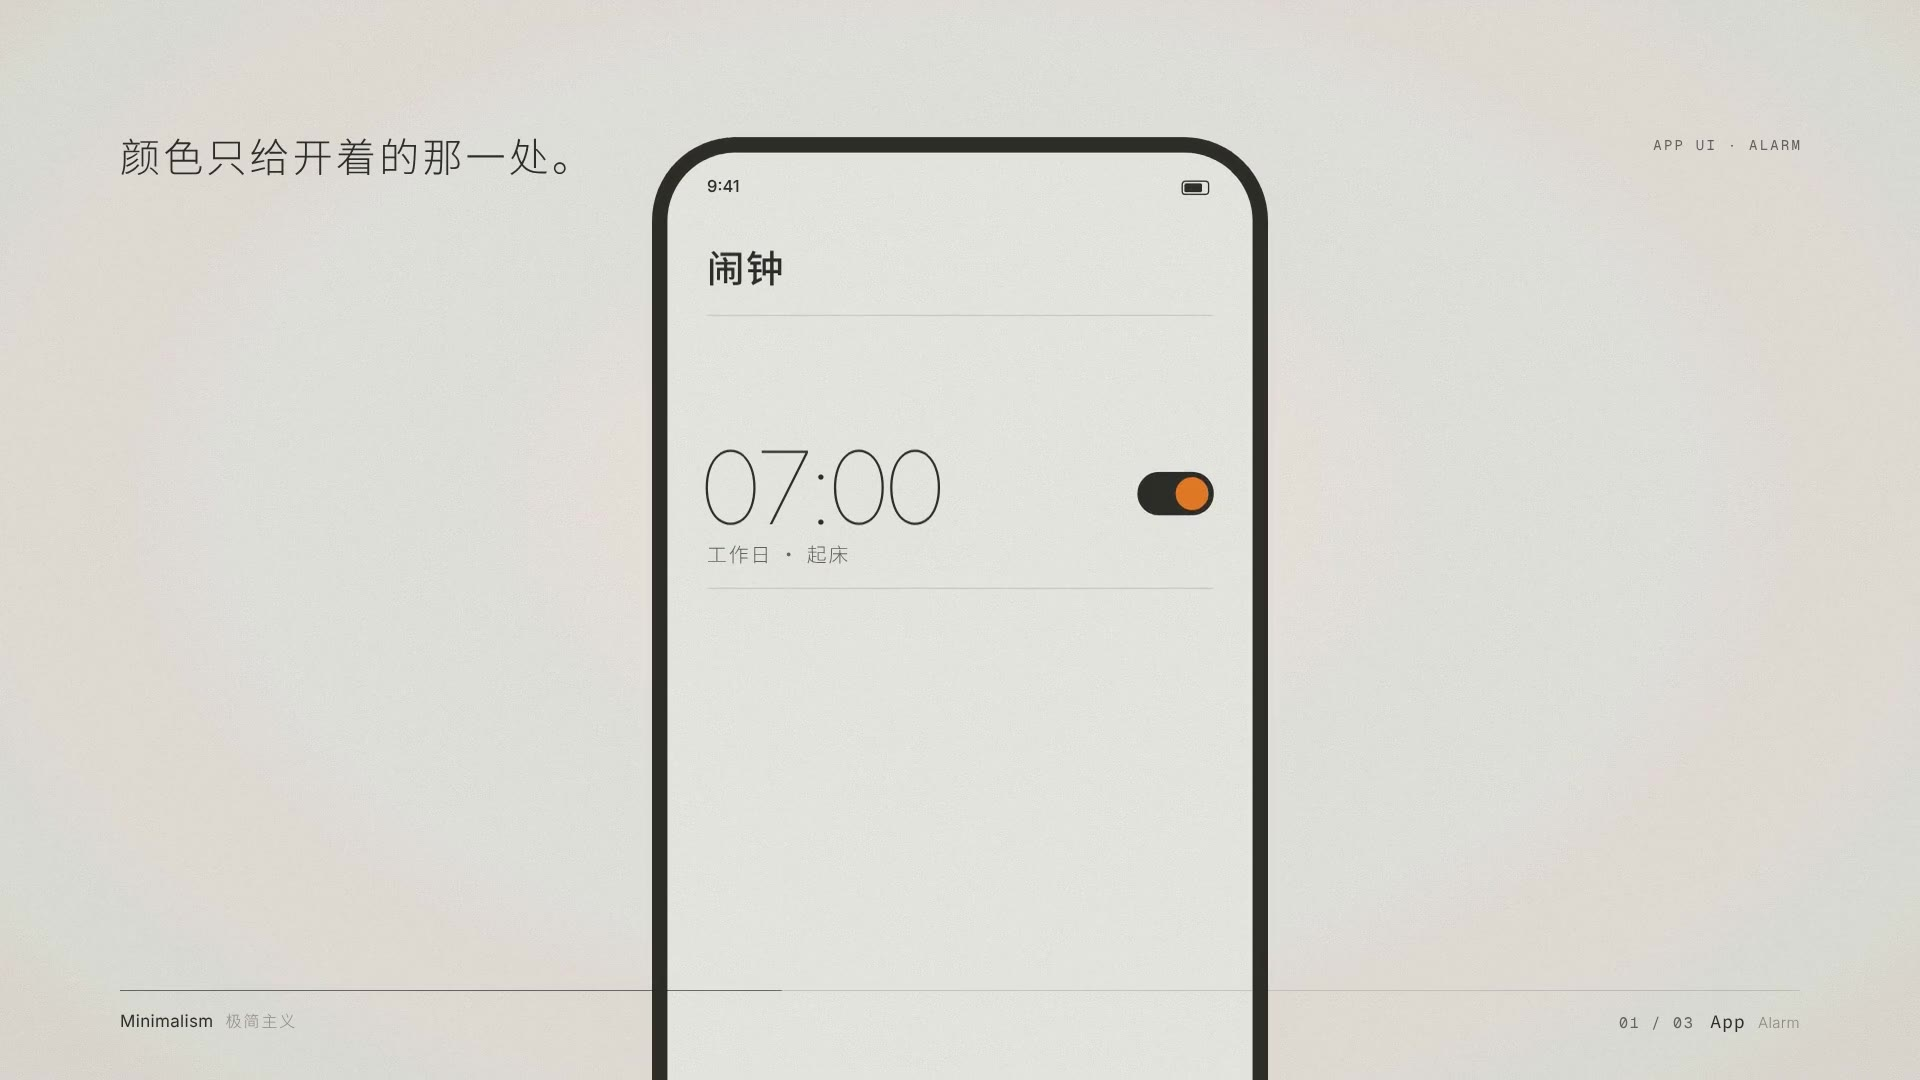
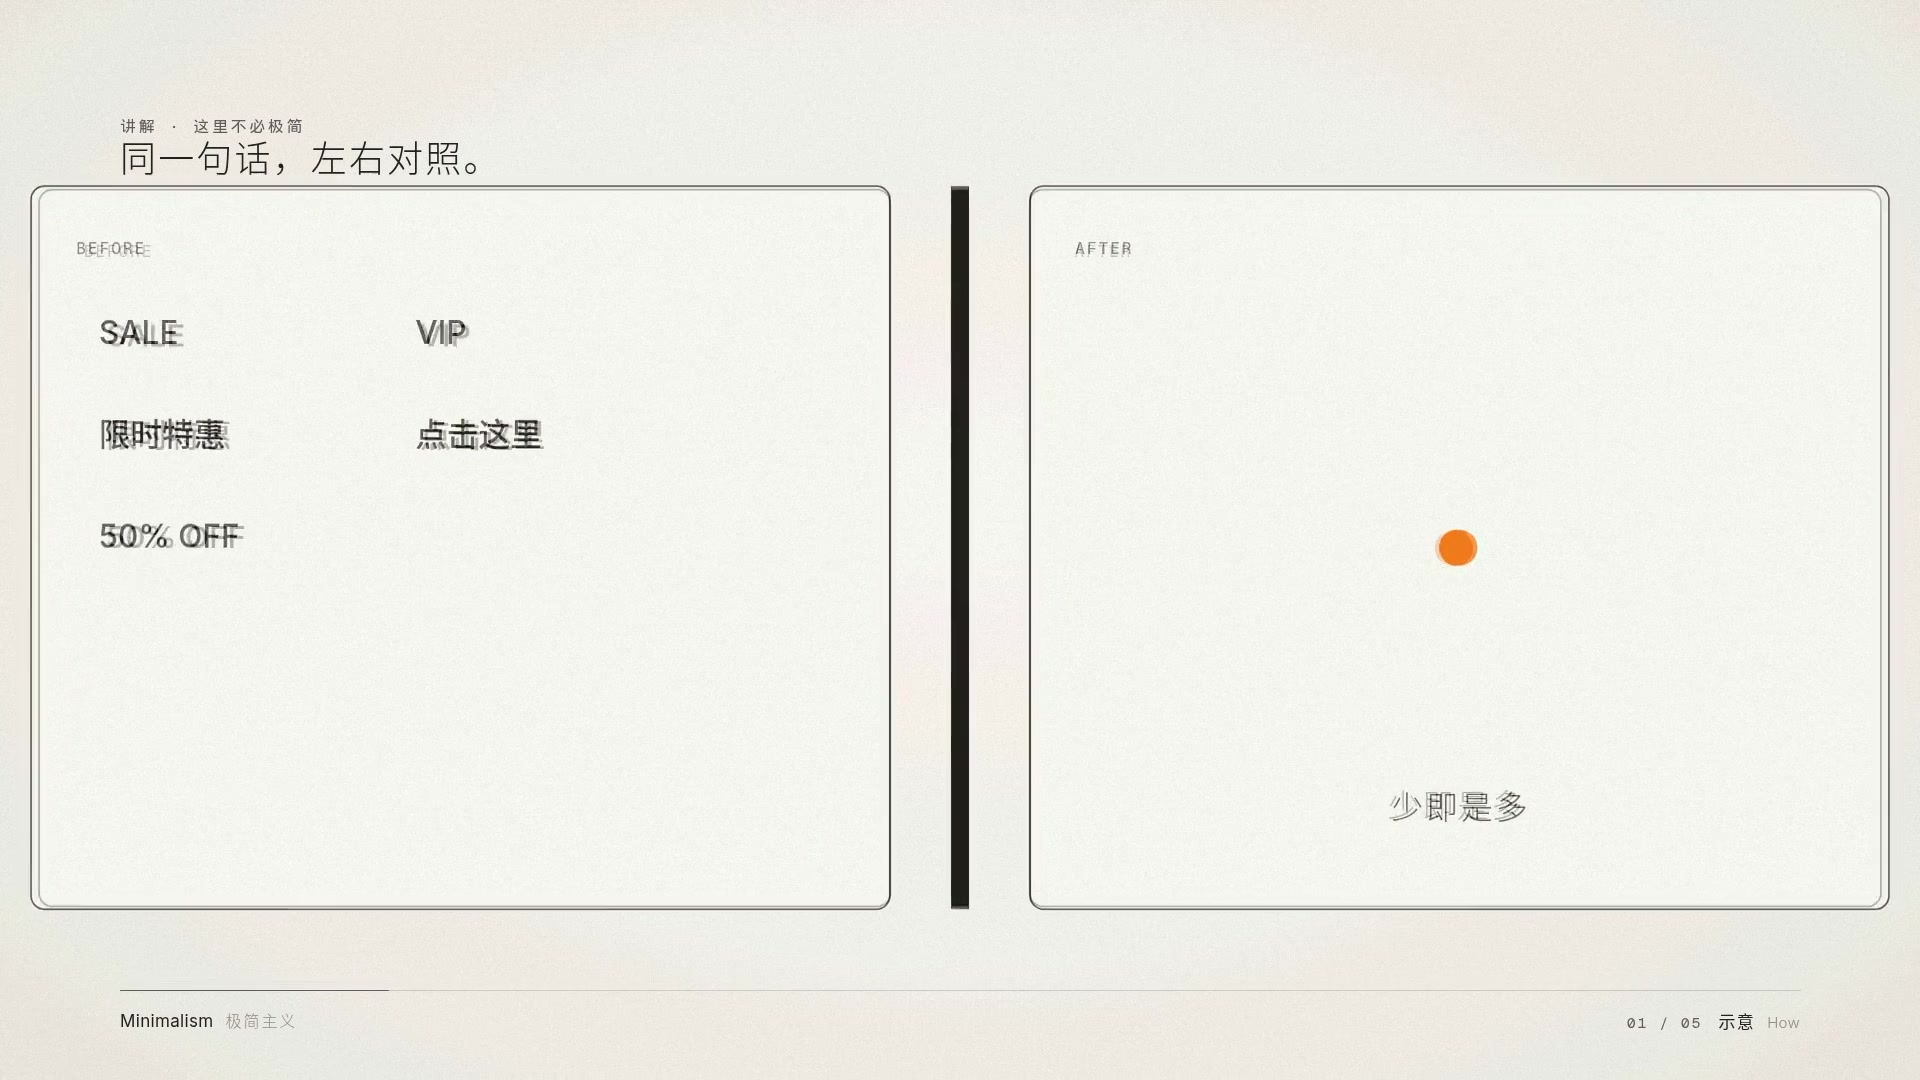
007 四改成片：24.0s · −14.02 LUFS · 讲解对照与封面
对照幕 before 框提前收掉，避免和左右对照叠字；
更新联系表、节拍时间轴和封面。

diff --git a/styles/007-minimalism/video/teach.tsx b/styles/007-minimalism/video/teach.tsx
@@ -185,7 +185,7 @@ const Arrows: React.FC<P> = ({f}) => {
 };
 
 const AfterDot: React.FC<P> = ({f}) => {
-  const o = vis(f, AFTER_AT, SPLIT_AT + 8, 8, 8);
+  const o = vis(f, AFTER_AT, SPLIT_AT - 16, 8, 12);
   if (o <= 0.001) return null;
   const s = spr(f, AFTER_AT, POP, 18);
   return (
@@ -301,7 +301,7 @@ export const Teach: React.FC<P> = ({f}) => {
         {f >= GRID_AT - 2 && f < BEFORE_AT + 20 && <Grid f={f} />}
         {f >= BEFORE_AT - 2 && f < AFTER_AT + 8 && <JunkCloud f={f} />}
         {f >= ARROW_AT - 2 && f < AFTER_AT + 4 && <Arrows f={f} />}
-        {f >= AFTER_AT - 2 && f < SPLIT_AT + 12 && <AfterDot f={f} />}
+        {f >= AFTER_AT - 2 && f < SPLIT_AT - 2 && <AfterDot f={f} />}
         {f >= SPLIT_AT - 2 && f < ACCENT_AT + 8 && <Split f={f} />}
         {f >= ACCENT_AT - 2 && <AccentCall f={f} />}
         <Dot x={d.x} y={d.y} r={d.r} />

diff --git a/styles/007-minimalism/PROCESS.md b/styles/007-minimalism/PROCESS.md
@@ -155,7 +155,7 @@
    - **回顾里的时间线刻度跟着缩放变得很粗：** 刻度画在缩放组外面。
    - **片尾“少，即是多。”逗号留出一个大洞：** 改成“少即是多”四个字等距。
 4. **配乐：** 第一版开场的噪音比 ping 还轻、低频持续音太重、收音机那一段太空、片尾没写完——逐段调了电平、补了片尾段。成片的 AAC 真峰值一度到 −0.5 dBTP，母带天花板压到 −2 dBTP 并加 6ms 淡入后，母版 −1.7、分享版 −1.8 dBTP。
-5. **成片检查：** `ffprobe` 核对 1920×1080 · 60fps · 1440 帧 · 24.0s · H.264 High + AAC；分享版目标 −14 LUFS，真峰值 ≤ −1 dBTP。
+5. **成片检查：** `ffprobe` 核对 1920×1080 · 60fps · 1440 帧 · 24.0s · H.264 High + AAC；分享版 **−14.02 LUFS · 真峰值 −4.18 dBTP**。
 6. **二改：** 开场整轨过 1.5 kHz 暖低通；拿掉收音机/贾德展板停留；片长 15s → 18s。
 7. **三改：** 历史幕压成 2 秒钩子；加入 App / HTML / 确认三幕真实产品 UI；片长 22.0s。
 8. **四改（本版）：** 讲解幕加厚（测量 / 字重 / 留白闪 / 飞走 / 网格 / 前后对比 / 三容器对照）；产品幕每个交互看得见、同一屏不晾 >0.8s；片长 24.0s。
